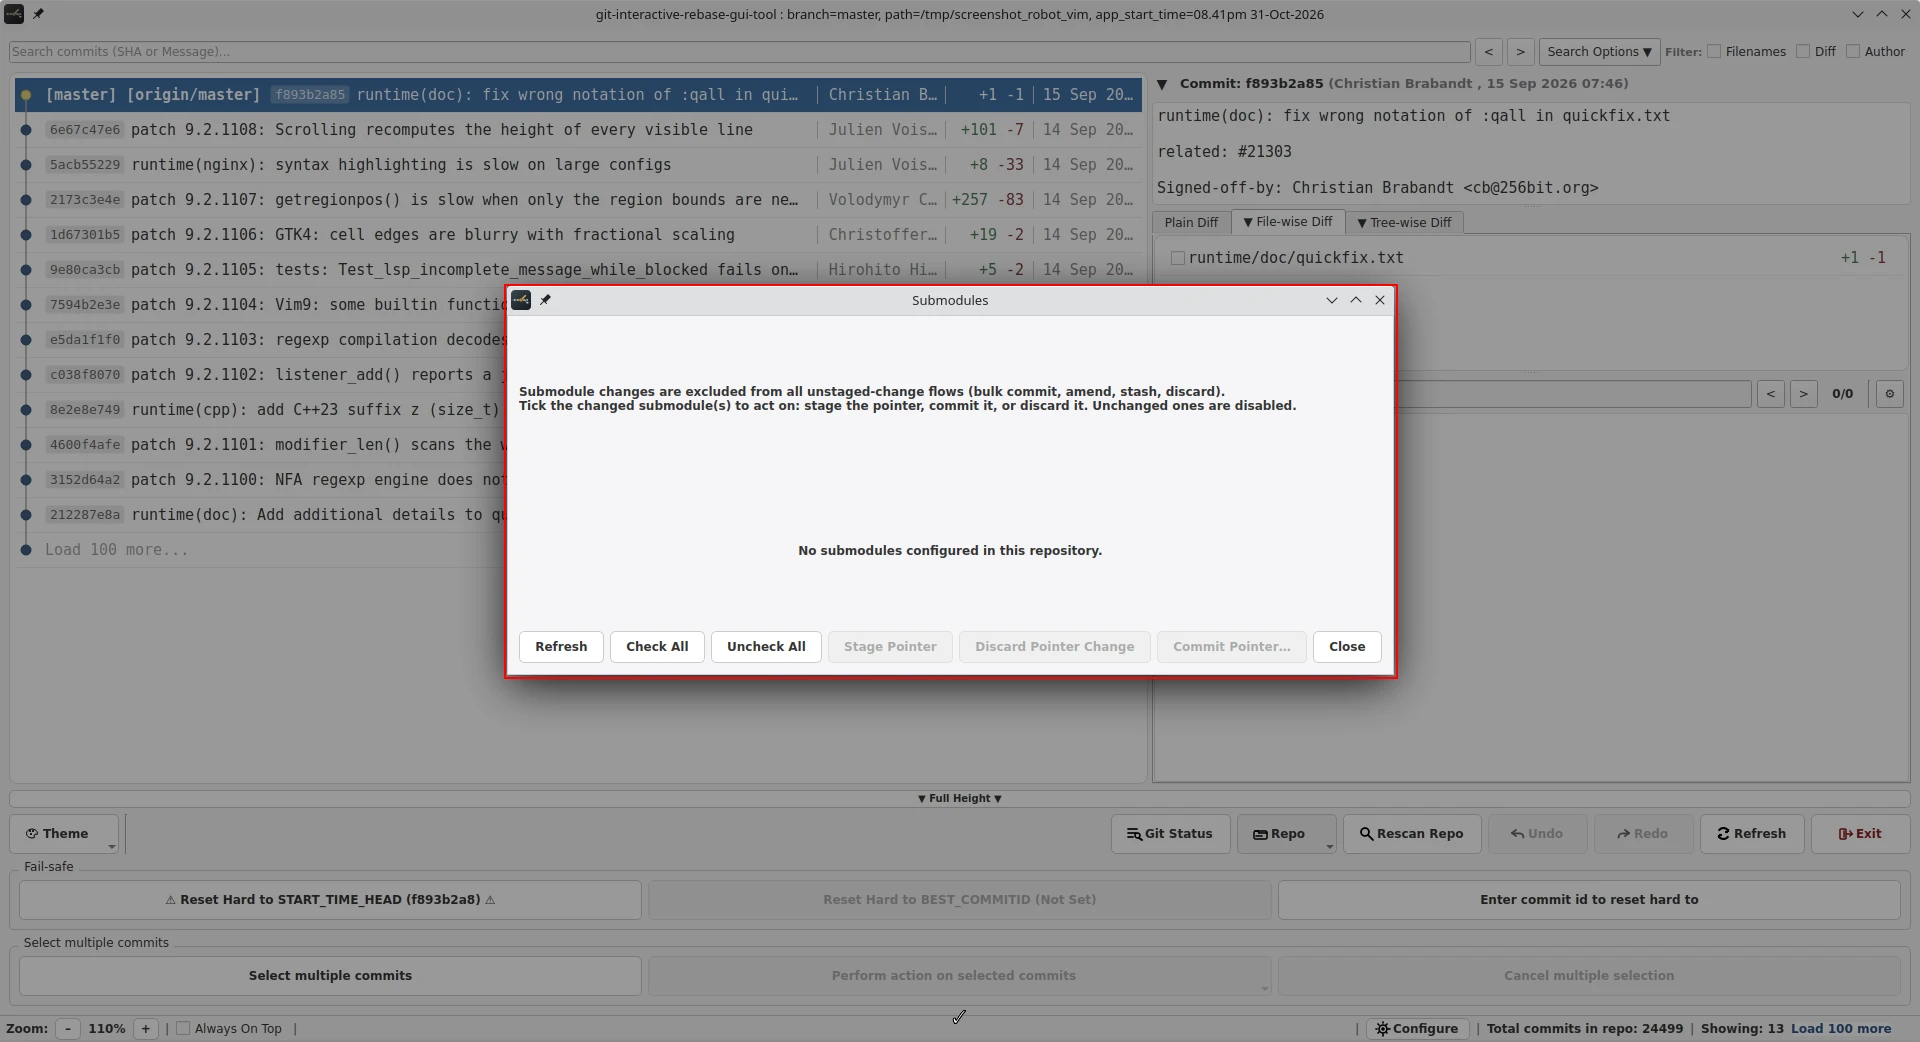
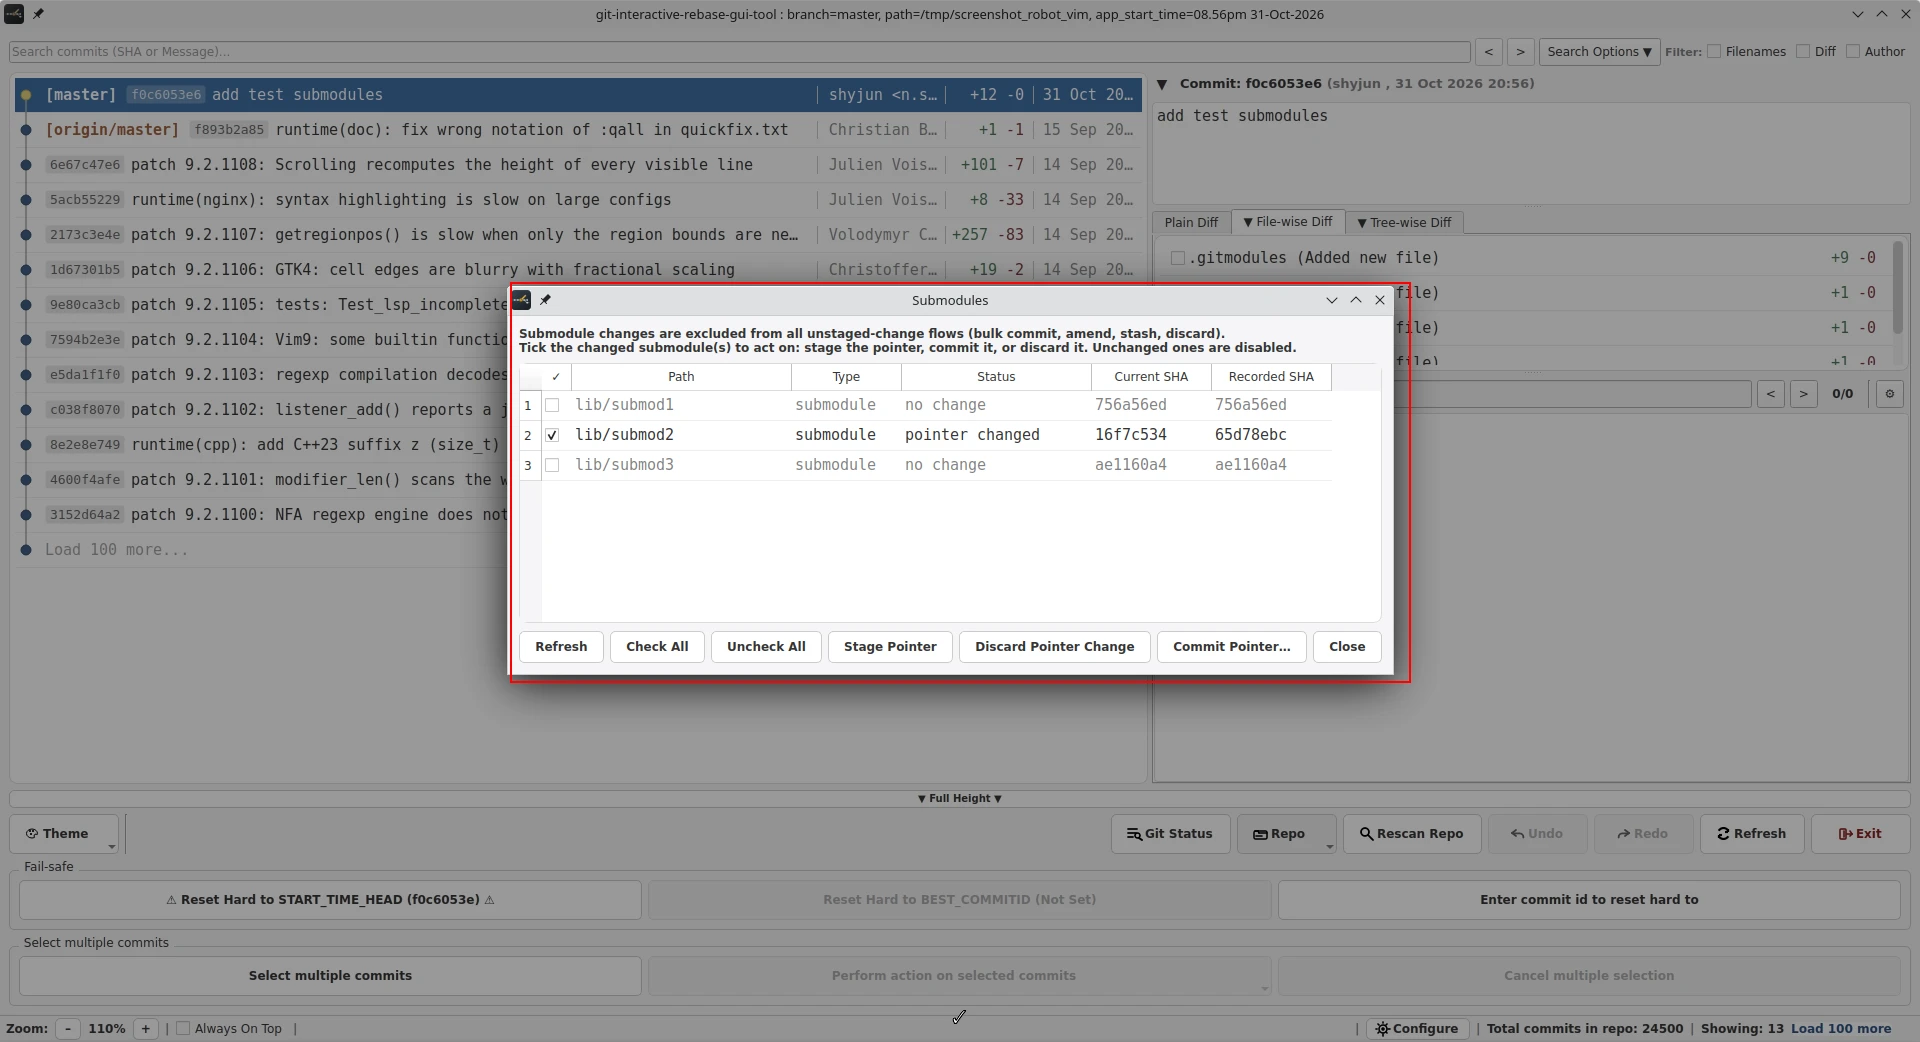
capture: submodule-manager.webp

diff --git a/scenes/submodule-manager.py b/scenes/submodule-manager.py
@@ -3,9 +3,6 @@ submodules, one of which has a pointer change.
 
 Run it through main.py; it prepares the clone, settings and publishing.
 """
-import os
-import subprocess as _sp
-import shutil
 import sys
 from pathlib import Path
 
@@ -17,43 +14,34 @@ BOXES = [
     {"rect": (510, 282, 1410, 682)},
     ]
 
-GIT_ENV = dict(
-    os.environ,
-    GIT_AUTHOR_NAME="bot",
-    GIT_AUTHOR_EMAIL="bot@x",
-    GIT_COMMITTER_NAME="bot",
-    GIT_COMMITTER_EMAIL="bot@x",
-)
+SUBMODULES = [
+    ("https://github.com/DaveGamble/cJSON.git", "lib/cjson"),
+    ("https://github.com/rxi/log.c.git", "lib/log"),
+    ("https://github.com/akheron/jansson.git", "lib/jansson"),
+    ("https://github.com/benhoyt/inih.git", "lib/inih"),
+    ("https://github.com/rxi/vec.git", "lib/vec"),
+    ("https://github.com/tidwall/hashmap.c.git", "lib/hashmap"),
+    ("https://github.com/rxi/map.git", "lib/map"),
+]
 
-
-def _mini_repo(path, content):
-    d = Path(path)
-    d.mkdir(parents=True)
-    (d / "readme.txt").write_text(content)
-    _sp.run(["git", "init"], cwd=d, capture_output=True, check=True)
-    _sp.run(["git", "add", "-A"], cwd=d, capture_output=True, check=True)
-    _sp.run(["git", "commit", "-m", "init"], cwd=d, capture_output=True, check=True, env=GIT_ENV)
+# The one we advance to show "pointer changed" (2nd entry, lib/log)
+ADVANCE_PATH = SUBMODULES[1][1]
 
 
 def main():
     repo.reset_to_base()
 
-    for d in (Path(f"/tmp/submod-{i}") for i in (1, 2, 3)):
-        if d.exists():
-            shutil.rmtree(d)
+    for url, path in SUBMODULES:
+        repo.run("-c", "protocol.file.allow=always", "submodule", "add", url, path)
 
-    _mini_repo("/tmp/submod-1", "minimal submodule one")
-    _mini_repo("/tmp/submod-2", "minimal submodule two")
-    _mini_repo("/tmp/submod-3", "minimal submodule three")
-
-    repo.run("-c", "protocol.file.allow=always", "submodule", "add", "/tmp/submod-1", "lib/submod1")
-    repo.run("-c", "protocol.file.allow=always", "submodule", "add", "/tmp/submod-2", "lib/submod2")
-    repo.run("-c", "protocol.file.allow=always", "submodule", "add", "/tmp/submod-3", "lib/submod3")
+    repo.run("add", ".gitmodules")
     repo.run("commit", "-m", "add test submodules")
 
-    with open(repo.path / "lib" / "submod2" / "readme.txt", "a") as fh:
+    with open(repo.path / ADVANCE_PATH / "readme.txt", "a") as fh:
         fh.write("modified\n")
-    repo.run("-C", str(repo.path / "lib" / "submod2"), "commit", "-am", "advance submod2")
+    sub_log = str(repo.path / ADVANCE_PATH)
+    repo.run("-C", sub_log, "add", "readme.txt")
+    repo.run("-C", sub_log, "commit", "-m", "advance pointer")
 
     tool = Tool(args=["HEAD~13"], log_name="submodule-manager.log")
     try:
@@ -74,7 +62,7 @@ def main():
         tool.sleep(1.5)
         img = capture(
             tool,
-            description="Submodules dialog: 3 registered, submod2 pointer changed",
+            description="Submodules dialog: 7 registered libs, lib/log pointer changed",
             size=(1920, 1042),
         )
         img.draw_box(BOXES)
